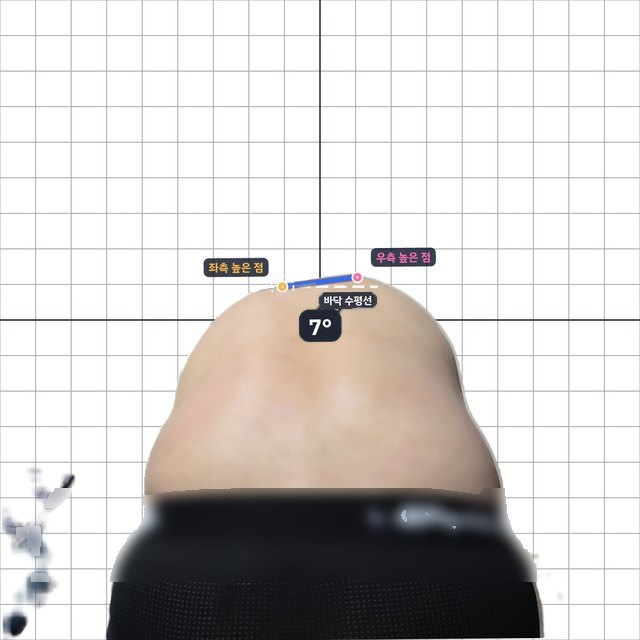
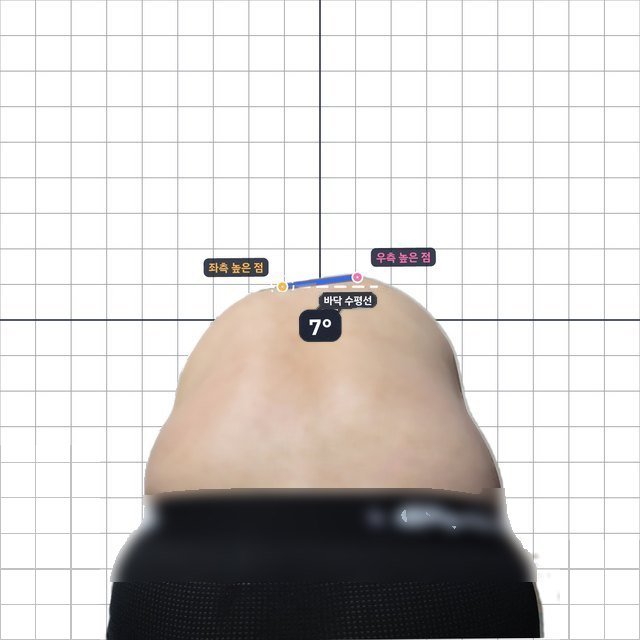
fix: 척추 균형 가이드 사진 가장자리 얼룩을 격자로 정리, CHANGELOG 묶음 순서 (reviewer)
Claude-Session: https://claude.ai/code/session_01PyFQzXUK3gVAPtCoid5yqG

Changed region(s): [[0.0, 0.7188, 0.125, 1.0]]

diff --git a/docs/CHANGELOG.md b/docs/CHANGELOG.md
@@ -8,10 +8,6 @@
 - **척추 균형 촬영 화면의 배경 실루엣**을 새 사진(등 뒤에서 숙인 자세)으로 바꿨습니다. 배경을 자동으로 떼어 내고 사람 부분만 남긴 뒤 **흑백·흐림 처리**해 저장했습니다(앱은 어차피 연한 명암 + 윤곽선으로만 보여 주므로 화면은 같고, 저장소에는 원본 색 사진이 남지 않습니다). 서는 위치·크기는 사진 그대로입니다
 - **척추 균형 [측정가이드] 예시 사진**을 실제 측정 화면(격자·좌측/우측 높은 점·바닥 수평선·각도)으로 바꿨습니다. 회원 이름·센터 이름이 있던 머리글은 잘라내고, 피부의 점과 옷 로고는 흐렸습니다
 - 두 사진은 앱 소유자 본인 사진이며 본인 요청으로 공개 가이드·실루엣에 씁니다(2026-10-16, 실명 기록 없음)
-### 추가
-- 없음
-### 수정
-- 없음
 ### 제거
 - 옛 척추 균형 실루엣 파일(`scol_C_atr_v3.webp`)
 
